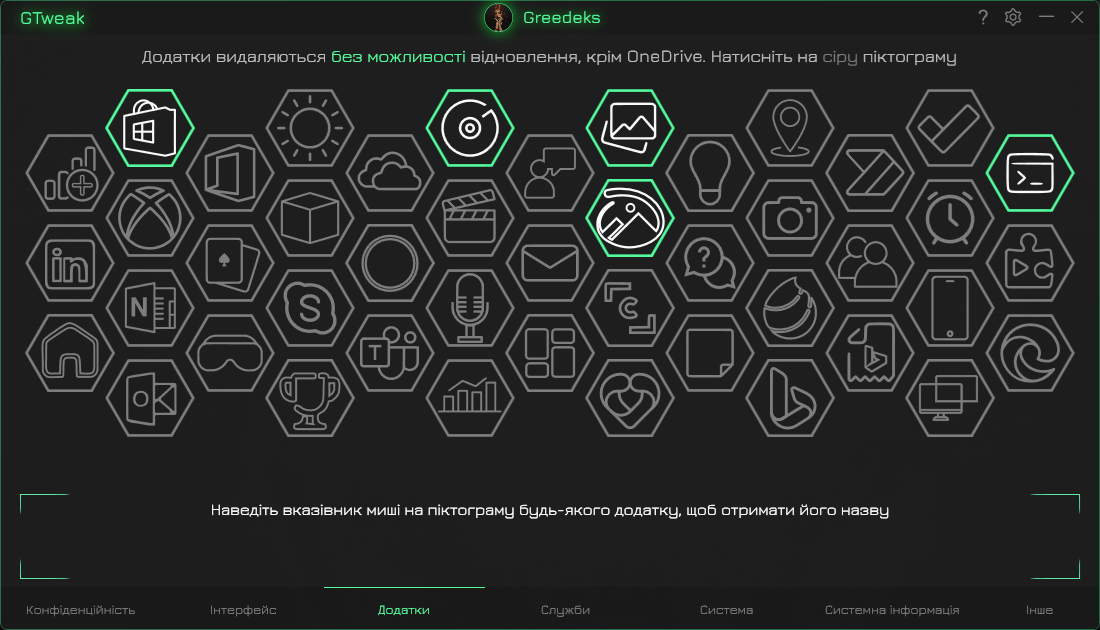
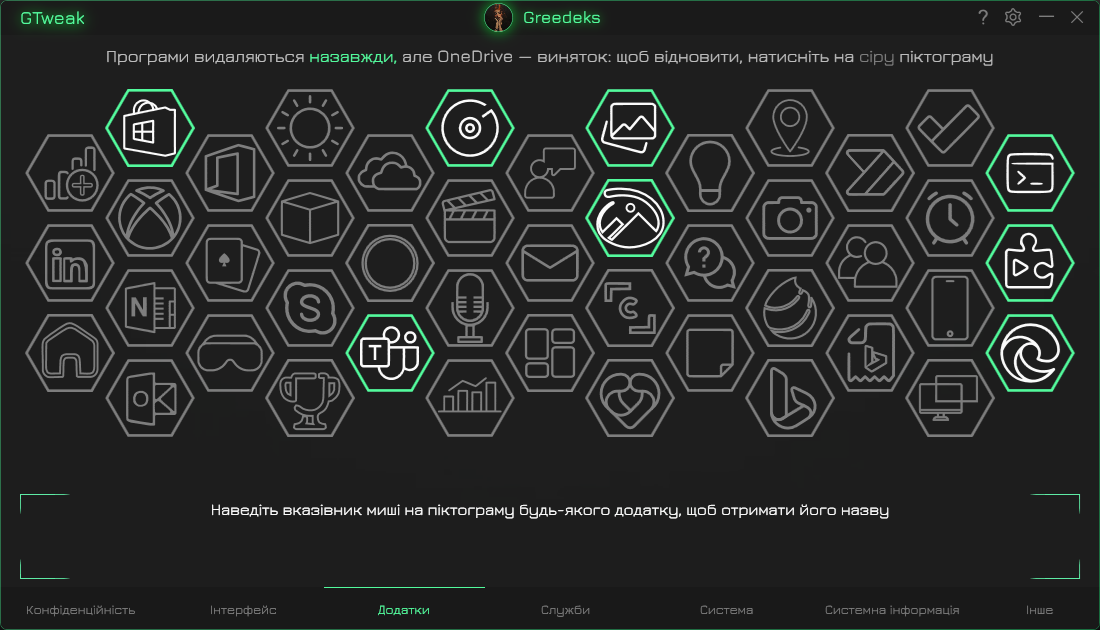
correction locale & upd. readme

Changed region(s): [[0.0927, 0.0603, 0.8964, 0.1206], [0.8964, 0.3317, 0.9891, 0.6333], [0.3091, 0.4825, 0.4018, 0.6333]]

diff --git a/.Source/GTweak/Languages/uk/Localize.xaml b/.Source/GTweak/Languages/uk/Localize.xaml
@@ -237,12 +237,12 @@
     <!--#endregion-->
 
     <!--#region Applications Page -->
-    <v:String x:Key="deletion_warn_part1_applications">Програми</v:String>
-    <v:String x:Key="deletion_warn_part2_applications">назавжди</v:String>
-    <v:String x:Key="deletion_warn_part3_applications">видаляються (крім OneDrive). Щоб відновити, натисніть на</v:String>
+    <v:String x:Key="deletion_warn_part1_applications">Програми видаляються</v:String>
+    <v:String x:Key="deletion_warn_part2_applications">назавжди,</v:String>
+    <v:String x:Key="deletion_warn_part3_applications">але OneDrive — виняток: щоб відновити, натисніть на</v:String>
     <v:String x:Key="deletion_warn_part4_applications">сіру</v:String>
     <v:String x:Key="deletion_warn_part5_applications">піктограму</v:String>
-    
+
     <v:String x:Key="MicrosoftStore_applications">Microsoft Store</v:String>
     <v:String x:Key="Xbox_applications">Microsoft Xbox</v:String>
     <v:String x:Key="OneNote_applications">Microsoft Office OneNote</v:String>

diff --git a/.Source/GTweak/Languages/ru/Localize.xaml b/.Source/GTweak/Languages/ru/Localize.xaml
@@ -238,10 +238,10 @@
 
     <!--#region Applications Page -->
     <v:String x:Key="deletion_warn_part1_applications">Приложения удаляются</v:String>
-    <v:String x:Key="deletion_warn_part2_applications">без возврата</v:String>
-    <v:String x:Key="deletion_warn_part3_applications">(кроме OneDrive). Для восстановления нажмите</v:String>
-    <v:String x:Key="deletion_warn_part4_applications">серую</v:String>
-    <v:String x:Key="deletion_warn_part5_applications">иконку</v:String>
+    <v:String x:Key="deletion_warn_part2_applications">навсегда,</v:String>
+    <v:String x:Key="deletion_warn_part3_applications">но OneDrive исключение: для восстановления нажмите на</v:String>
+    <v:String x:Key="deletion_warn_part4_applications">серый</v:String>
+    <v:String x:Key="deletion_warn_part5_applications">значок</v:String>
     
     <v:String x:Key="MicrosoftStore_applications">Microsoft Store</v:String>
     <v:String x:Key="Xbox_applications">Microsoft Xbox</v:String>

diff --git a/.Source/GTweak/Languages/en/Localize.xaml b/.Source/GTweak/Languages/en/Localize.xaml
@@ -237,12 +237,12 @@
      <!--#endregion-->
 
     <!--#region Applications Page -->
-    <v:String x:Key="deletion_warn_part1_applications">Applications are</v:String>
-    <v:String x:Key="deletion_warn_part2_applications">permanently</v:String>
-    <v:String x:Key="deletion_warn_part3_applications">deleted (except OneDrive). To restore, click the</v:String>
+    <v:String x:Key="deletion_warn_part1_applications">Applications are deleted</v:String>
+    <v:String x:Key="deletion_warn_part2_applications">permanently,</v:String>
+    <v:String x:Key="deletion_warn_part3_applications">but OneDrive is an exception: to restore, click the</v:String>
     <v:String x:Key="deletion_warn_part4_applications">gray</v:String>
     <v:String x:Key="deletion_warn_part5_applications">icon</v:String>
-     
+
     <v:String x:Key="MicrosoftStore_applications">Microsoft Store</v:String>
     <v:String x:Key="Xbox_applications">Microsoft Xbox</v:String>
     <v:String x:Key="OneNote_applications">Microsoft Office OneNote</v:String>

diff --git a/.Source/GTweak/Languages/it/Localize.xaml b/.Source/GTweak/Languages/it/Localize.xaml
@@ -237,9 +237,9 @@
     <!--#endregion-->
 
     <!--#region Applications Page -->
-    <v:String x:Key="deletion_warn_part1_applications">Le applicazioni vengono</v:String>
-    <v:String x:Key="deletion_warn_part2_applications">permanentemente</v:String>
-    <v:String x:Key="deletion_warn_part3_applications">eliminate (ad eccezione di OneDrive). Per ripristinare, fai clic sulla</v:String>
+    <v:String x:Key="deletion_warn_part1_applications">Le applicazioni vengono eliminate</v:String>
+    <v:String x:Key="deletion_warn_part2_applications">definitivamente,</v:String>
+    <v:String x:Key="deletion_warn_part3_applications">ma OneDrive è un'eccezione: per ripristinare, fai clic sulla</v:String>
     <v:String x:Key="deletion_warn_part4_applications">grigia</v:String>
     <v:String x:Key="deletion_warn_part5_applications">icona</v:String>
 

diff --git a/.Source/GTweak/Languages/ko/Localize.xaml b/.Source/GTweak/Languages/ko/Localize.xaml
@@ -237,9 +237,9 @@
      <!--#endregion-->
 
     <!--#region Applications Page -->
-    <v:String x:Key="deletion_warn_part1_applications">애플리케이션이</v:String>
-    <v:String x:Key="deletion_warn_part2_applications">영구적으로</v:String>
-    <v:String x:Key="deletion_warn_part3_applications">삭제됩니다(OneDrive 제외). 복원하려면</v:String>
+    <v:String x:Key="deletion_warn_part1_applications">애플리케이션은</v:String>
+    <v:String x:Key="deletion_warn_part2_applications">영구적으로 삭제되며,</v:String>
+    <v:String x:Key="deletion_warn_part3_applications">OneDrive는 예외입니다. 복원하려면</v:String>
     <v:String x:Key="deletion_warn_part4_applications">회색</v:String>
     <v:String x:Key="deletion_warn_part5_applications">아이콘을 클릭하세요</v:String>
 

diff --git a/.Source/GTweak/Languages/pt-br/Localize.xaml b/.Source/GTweak/Languages/pt-br/Localize.xaml
@@ -237,9 +237,9 @@
     <!--#endregion-->
 
     <!--#region Applications Page -->
-    <v:String x:Key="deletion_warn_part1_applications">Os aplicativos são</v:String>
-    <v:String x:Key="deletion_warn_part2_applications">permanentemente</v:String>
-    <v:String x:Key="deletion_warn_part3_applications">excluídos (exceto o OneDrive). Para restaurar, clique no</v:String>
+    <v:String x:Key="deletion_warn_part1_applications">Os aplicativos são excluídos</v:String>
+    <v:String x:Key="deletion_warn_part2_applications">permanentemente,</v:String>
+    <v:String x:Key="deletion_warn_part3_applications">mas o OneDrive é uma exceção: para restaurar, clique no</v:String>
     <v:String x:Key="deletion_warn_part4_applications">cinza</v:String>
     <v:String x:Key="deletion_warn_part5_applications">ícone</v:String>
 

diff --git a/.Source/GTweak/Languages/fr/Localize.xaml b/.Source/GTweak/Languages/fr/Localize.xaml
@@ -238,9 +238,9 @@
     <!--#endregion-->
 
     <!--#region Applications Page -->
-    <v:String x:Key="deletion_warn_part1_applications">Les applications sont</v:String>
-    <v:String x:Key="deletion_warn_part2_applications">définitivement</v:String>
-    <v:String x:Key="deletion_warn_part3_applications">supprimées (sauf OneDrive). Pour restaurer, cliquez sur la</v:String>
+    <v:String x:Key="deletion_warn_part1_applications">Les applications sont supprimées</v:String>
+    <v:String x:Key="deletion_warn_part2_applications">définitivement,</v:String>
+    <v:String x:Key="deletion_warn_part3_applications">sauf OneDrive : pour restaurer, cliquez sur l’</v:String>
     <v:String x:Key="deletion_warn_part4_applications">grise</v:String>
     <v:String x:Key="deletion_warn_part5_applications">icône</v:String>
 

diff --git a/README-pt-br.md b/README-pt-br.md
@@ -15,7 +15,7 @@
 
 <!-- langues --> 
 <div align="center">
-  <h1>🌍 Langues disponibles:</h1>
+  <h1>🌍 Idiomas Disponíveis:</h1>
 
 <a href="https://github.com/Greedeks/GTweak/blob/main/README.md">
     <img src="https://cdn-icons-png.flaticon.com/128/197/197484.png" alt="Drapeau US" width="40">
@@ -33,7 +33,7 @@
     <img src="https://cdn-icons-png.flaticon.com/128/197/197582.png" alt="Drapeau Coréen" width="40">
 </a>
 
-<a href="https://github.com/Greedeks/GTweak/blob/main/README-pt-br.md">
+<a href="https://github.com/Greedeks/GTweak/blob/main/README.md">
     <img src="https://cdn-icons-png.flaticon.com/128/9906/9906449.png" alt="Brazilian Flag" width="40">
 </a>
 
@@ -49,74 +49,74 @@
 </div>
 
 ---
-<h2> Une large gamme de fonctions, incluant : 🔩</h2>
+<h2> Uma ampla variedade de funções, incluindo: 🔩</h2>
 
 ```java
-- Activation de Windows via HWID et KMS;
-- Désactivation de Windows Defender, SmartScreen, Antimalware, VBS et UAC;
-- Désactivation des mises à jour Windows et suppression des fichiers temporaires de mise à jour;
-- Désactivation des services inutiles et superflus;
-- Désactivation des keyloggers et de la télémétrie pour Windows et NVIDIA;
-- Désactivation des services et événements liés à la collecte de données utilisateur;
-- Désactivation des tâches du Planificateur de tâches Windows;
-- Désactivation des protocoles réseau inutiles : Teredo, ISATAP et IPv6;
-- Désactivation des outils de diagnostic Windows intégrés et de la défragmentation;
-- Suppression des publicités et bannières système dans Windows, y compris SCOOBE;
-- Désactivation des notifications, recommandations et suggestions système;
-- Blocage des domaines fantômes de Microsoft collectant des données;
-- Désinstallation de OneDrive et Microsoft Edge ainsi que des données et dossiers associés;
-- Suppression des applications préinstallées dans Windows 10/11;
-- Suppression et désactivation des assistants IA : Cortana, Copilot et Recall;
-- Personnalisation de l’interface : thèmes, fenêtres et icônes;
-- Configuration du clavier et de la souris : désactivation du filtrage, des touches rémanentes, accélération;
-- Ajustement des paramètres Windows et du plan d’alimentation;
-- Ajustement de l'alimentation pour les pilotes Realtek Audio afin de corriger les retards audio;
-- Affichage de la configuration et surveillance des composants système;
-- Compression et restauration des données via NFTS.
+- Ativação do Windows usando métodos HWID e KMS;
+- Desativação do Windows Defender, SmartScreen, Antimalware, VBS e UAC;
+- Desativação de atualizações do Windows e remoção de arquivos temporários de atualização;
+- Desativação de serviços não utilizados e desnecessários;
+- Desativação de keyloggers e telemetria do Windows e NVIDIA;
+- Desativação de serviços e eventos relacionados à coleta de dados do usuário;
+- Desativação de tarefas no Agendador de Tarefas do Windows;
+- Desativação de protocolos de rede desnecessários: Teredo, ISATAP e IPv6;
+- Desativação de ferramentas de diagnóstico internas do Windows e desfragmentação;
+- Desativação de anúncios e banners do sistema no Windows, incluindo SCOOBE;
+- Desativação de notificações, recomendações e sugestões do sistema no Windows;
+- Bloqueio de domínios ocultos da Microsoft que coletam dados;
+- Desinstalação do OneDrive e do Microsoft Edge, incluindo limpeza de todos os dados e pastas associados;
+- Remoção de aplicativos pré-instalados padrão no Windows 10/11;
+- Remoção e desativação de assistentes de IA: Cortana, Copilot e Recall;
+- Personalização da interface: alteração de temas, configurações de janelas e ícones;
+- Configuração de teclado e mouse: desativação de filtragem de teclas, teclas aderentes e aceleração;
+- Ajuste das configurações do Windows e modificação do plano de energia;
+- Ajuste das configurações de energia para drivers de áudio Realtek High Definition para corrigir atraso de som;
+- Visualização da configuração e monitoramento dos componentes do sistema;
+- Implementação de compressão de dados e posterior restauração usando NTFS.
 ```
 
-<h2> Captures d'écran 📷</h2>
+<h2> Capturas de Tela 📷</h2>
 <details>
-  <summary> Confidentialité </summary>
-  <img src="https://github.com/Greedeks/GTweak/blob/main/.github/fr/Confidentiality.png"/>
+  <summary> Privacidade </summary>
+  <img src="https://github.com/Greedeks/GTweak/blob/main/.github/pt-br/Confidentiality.png"/>
 </details>
 <details>
   <summary> Interface </summary>
-  <img src="https://github.com/Greedeks/GTweak/blob/main/.github/fr/Interface.png"/>
+  <img src="https://github.com/Greedeks/GTweak/blob/main/.github/pt-br/Interface.png"/>
 </details>
 <details>
-  <summary> Applications </summary>
-  <img src="https://github.com/Greedeks/GTweak/blob/main/.github/fr/Applications.png"/>
+  <summary> Aplicativos </summary>
+  <img src="https://github.com/Greedeks/GTweak/blob/main/.github/pt-br/Applications.png"/>
 </details>
 <details>
-  <summary> Services </summary>
-  <img src="https://github.com/Greedeks/GTweak/blob/main/.github/fr/Services.png"/>
+  <summary> Serviços </summary>
+  <img src="https://github.com/Greedeks/GTweak/blob/main/.github/pt-br/Services.png"/>
 </details>
 <details>
-  <summary> Système </summary>
-  <img src="https://github.com/Greedeks/GTweak/blob/main/.github/fr/System.png"/>
+  <summary> Sistema </summary>
+  <img src="https://github.com/Greedeks/GTweak/blob/main/.github/pt-br/System.png"/>
 </details>
 <details>
-  <summary> Autres </summary>
-  <img src="https://github.com/Greedeks/GTweak/blob/main/.github/fr/More.png"/>
+  <summary> Mais </summary>
+  <img src="https://github.com/Greedeks/GTweak/blob/main/.github/pt-br/More.png"/>
 </details>
 
-<h2> Configuration requise </h2>
+<h2> Requisitos do Sistema </h2>
 
-> ⚠ L’utilitaire est conçu uniquement pour les images officielles de Windows téléchargées depuis des sources fiables. Si vous avez installé une version modifiée de Windows, vous êtes seul responsable de son bon fonctionnement.
+> ⚠ A utilidade é projetada exclusivamente para imagens oficiais do Windows baixadas de fontes confiáveis. Se você instalou uma versão reduzida/modificada do Windows, você é o único responsável pela sua funcionalidade.
 
 ```c++
-Compatibilité Windows: à partir de la version 10 (build 18362.116)
-Résolution minimale: 1280×720 (HD)
-Plateforme installée: .NET Framework 4.8
+Suporte Windows: desde 10 (build 18362.116)
+Resolução mínima de tela: 1280×720 (HD)
+Plataforma instalada: .NET Framework 4.8
 ```
 </br>
 
 > [!WARNING]
-> Vous devez désactiver l’antivirus avant utilisation
+> Você precisará parar o antivírus antes de usar
 </br>
 
-## Packages NuGet
+## Pacotes NuGet
 
 - [TaskScheduler](https://www.nuget.org/packages/TaskScheduler)
 - [Costura](https://github.com/Fody/Costura)
@@ -124,12 +124,12 @@ Plateforme installée: .NET Framework 4.8
 - [Newtonsoft.Json](https://www.nuget.org/packages/Newtonsoft.Json)
 - [Ookii.Dialogs.Wpf](https://www.nuget.org/packages/Ookii.Dialogs.Wpf)
 
-## Référence
+## Referência
 - FirewallAPI
 
 </br>
 
-## Traduction ❤
+## Tradução ❤
 - 한국어 - [@VenusGirl](https://github.com/VenusGirl)
 - Українська - [@Kopejkin](https://github.com/Kopejkin)
 - Français, Italiano - [@Zephyris](https://github.com/Zephyris-Pro)
@@ -137,7 +137,7 @@ Plateforme installée: .NET Framework 4.8
 
 </br>
 
-## Contact
+## Contato
 <img src="https://avatars.githubusercontent.com/u/82948926?s=400&u=66ddd72b29af1ac8b262281b183da6d191c5a71d&v=4" width="100px;"/>
 
 [![github](https://img.shields.io/badge/Github-gray?style=for-the-badge\&logo=github\&logoColor=white)](https://github.com/Greedeks)

diff --git a/README-ru.md b/README-ru.md
@@ -33,7 +33,7 @@
     <img src="https://cdn-icons-png.flaticon.com/128/197/197582.png" alt="Korean Flag" width="40">
 </a>
 
-<a href="https://github.com/Greedeks/GTweak/blob/main/README.md">
+<a href="https://github.com/Greedeks/GTweak/blob/main/README-pt-br.md">
     <img src="https://cdn-icons-png.flaticon.com/128/9906/9906449.png" alt="Brazilian Flag" width="40">
 </a>
 
@@ -132,10 +132,10 @@
 </br>
 
 ## Перевод ❤ 
-- Корейский - [@VenusGirl](https://github.com/VenusGirl)
-- Украинский - [@Kopejkin](https://github.com/Kopejkin)
-- Французский, Итальянский - [@Zephyris](https://github.com/Zephyris-Pro)
-- Бразильский португальский - [@Marcos Evangelista](https://github.com/marcolinojunior)
+- 한국어 - [@VenusGirl](https://github.com/VenusGirl)
+- Українська - [@Kopejkin](https://github.com/Kopejkin)
+- Français, Italiano - [@Zephyris](https://github.com/Zephyris-Pro)
+- Português Brasileiro - [@Marcos Evangelista](https://github.com/marcolinojunior)
 
 </br>
 

diff --git a/README-it.md b/README-it.md
@@ -33,7 +33,7 @@
     <img src="https://cdn-icons-png.flaticon.com/128/197/197582.png" alt="Bandiera Corea" width="40">
 </a>
 
-<a href="https://github.com/Greedeks/GTweak/blob/main/README.md">
+<a href="https://github.com/Greedeks/GTweak/blob/main/README-pt-br.md">
     <img src="https://cdn-icons-png.flaticon.com/128/9906/9906449.png" alt="Brazilian Flag" width="40">
 </a>
 
@@ -131,10 +131,10 @@ Piattaforma installata: .NET Framework 4.8
 </br>
 
 ## Traduzioni ❤
-- Coreano - [@VenusGirl](https://github.com/VenusGirl)
-- Ucraino - [@Kopejkin](https://github.com/Kopejkin)
-- Francese, Italiano - [@Zephyris](https://github.com/Zephyris-Pro)
-- Brazilian Portuguese - [@Marcos Evangelista](https://github.com/marcolinojunior)
+- 한국어 - [@VenusGirl](https://github.com/VenusGirl)
+- Українська - [@Kopejkin](https://github.com/Kopejkin)
+- Français, Italiano - [@Zephyris](https://github.com/Zephyris-Pro)
+- Português Brasileiro - [@Marcos Evangelista](https://github.com/marcolinojunior)
 
 </br>
 

diff --git a/README-ko.md b/README-ko.md
@@ -33,7 +33,7 @@
     <img src="https://cdn-icons-png.flaticon.com/128/197/197582.png" alt="Korean Flag" width="40">
 </a>
 
-<a href="https://github.com/Greedeks/GTweak/blob/main/README.md">
+<a href="https://github.com/Greedeks/GTweak/blob/main/README-pt-br.md">
     <img src="https://cdn-icons-png.flaticon.com/128/9906/9906449.png" alt="Brazilian Flag" width="40">
 </a>
 
@@ -130,10 +130,10 @@ Windows 지원: Windows 10 (build 18362.116)부터
 </br>
 
 ## 번역 ❤ 
-- Korean - [@VenusGirl](https://github.com/VenusGirl)
-- Ukrainian - [@Kopejkin](https://github.com/Kopejkin)
-- French, Italian - [@Zephyris](https://github.com/Zephyris-Pro)
-- Brazilian Portuguese - [@Marcos Evangelista](https://github.com/marcolinojunior)
+- 한국어 - [@VenusGirl](https://github.com/VenusGirl)
+- Українська - [@Kopejkin](https://github.com/Kopejkin)
+- Français, Italiano - [@Zephyris](https://github.com/Zephyris-Pro)
+- Português Brasileiro - [@Marcos Evangelista](https://github.com/marcolinojunior)
 
 </br>
 

diff --git a/README.md b/README.md
@@ -33,7 +33,7 @@
     <img src="https://cdn-icons-png.flaticon.com/128/197/197582.png" alt="Korean Flag" width="40">
 </a>
 
-<a href="https://github.com/Greedeks/GTweak/blob/main/README.md">
+<a href="https://github.com/Greedeks/GTweak/blob/main/README-pt-br.md">
     <img src="https://cdn-icons-png.flaticon.com/128/9906/9906449.png" alt="Brazilian Flag" width="40">
 </a>
 
@@ -129,10 +129,10 @@ Installed platform: .NET Framework 4.8
 </br>
 
 ## Translation ❤ 
-- Korean - [@VenusGirl](https://github.com/VenusGirl)
-- Ukrainian - [@Kopejkin](https://github.com/Kopejkin)
-- French, Italian - [@Zephyris](https://github.com/Zephyris-Pro)
-- Brazilian Portuguese - [@Marcos Evangelista](https://github.com/marcolinojunior)
+- 한국어 - [@VenusGirl](https://github.com/VenusGirl)
+- Українська - [@Kopejkin](https://github.com/Kopejkin)
+- Français, Italiano - [@Zephyris](https://github.com/Zephyris-Pro)
+- Português Brasileiro - [@Marcos Evangelista](https://github.com/marcolinojunior)
 
 </br>
 
